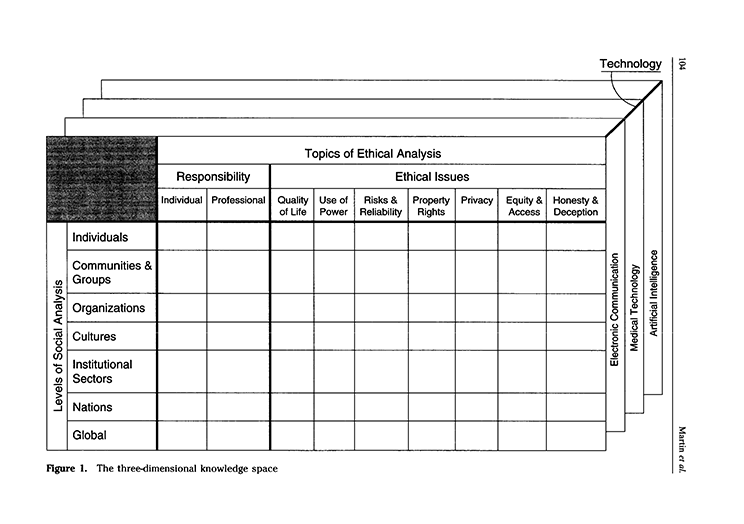
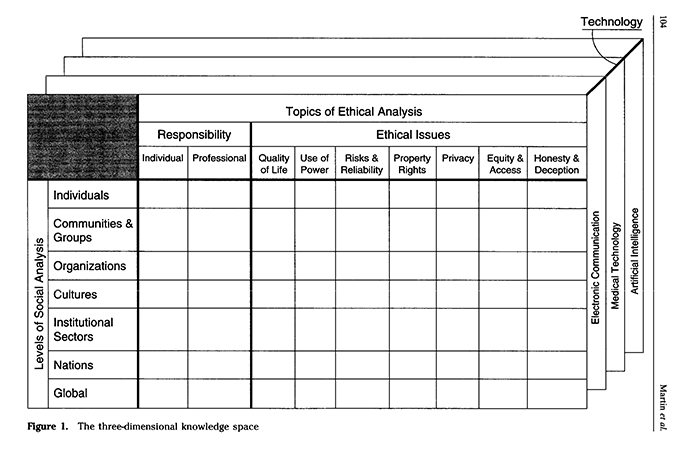
Added image subtitle style
Cropped martin miller image

Changed region(s): [[0.0307, 0.031, 0.9825, 0.9623], [0.9518, 0.8381, 0.9825, 0.9623]]

diff --git a/index.html b/index.html
@@ -7,42 +7,44 @@
 
 <body>
 
-<div class="main">
+  <!-- Wrap the content in a div to allow easier layout and alignment -->
+  <div class="main">
 
-  <article>
-    <!-- Main content -->
-    <h1><a class="menu" href="index.html">CTiS: Impact of Technology Site</a></h1>
-    <h5>- Home Page -</h5>
+    <!-- All the main content goes in this article container to keep the width sensible -->
+    <article>
+      <h1><a class="menu" href="index.html">CTiS: Impact of Technology Site</a></h1> <!-- Site title functions as lint to return to home -->
+      <h5>- Home Page -</h5> <!-- Subtitle so the user always knows where they are -->
 
-    <hr>
-    <div style="display: flex; justify-content: center; padding: 0px;">
-      <ul class="menu">
-        <li class="horizontal"><a class="menu" href="misc/topic.html">Technology/Topic</a>
-        <li class="horizontal"><a class="menu" href="misc/opportunities.html">Opportunities</a>
-        <li class="horizontal"><a class="menu" href="misc/risks.html">Risks</a>
-        <li class="horizontal"><a class="menu" href="misc/choices.html">Choices</a>
-        <li class="horizontal"><a class="menu" href="misc/ethics.html">Ethical Reflections</a>
-        <li class="horizontal"><a class="menu" href="misc/references.html">References</a>
-        <li class="horizontal"><a class="menu" href="misc/process.html">Process Support</a>
-      </ul>
-    </div>
+      <!-- Navigation bar 
+           Don't link to the page that the user is currently on. -->
+      <hr>
+      <div style="display: flex; justify-content: center; padding: 0px;">
+        <ul class="menu">
+          <li class="horizontal"><a class="menu" href="misc/topic.html">Technology/Topic</a>
+          <li class="horizontal"><a class="menu" href="misc/opportunities.html">Opportunities</a>
+          <li class="horizontal"><a class="menu" href="misc/risks.html">Risks</a>
+          <li class="horizontal"><a class="menu" href="misc/choices.html">Choices</a>
+          <li class="horizontal"><a class="menu" href="misc/ethics.html">Ethical Reflections</a>
+          <li class="horizontal"><a class="menu" href="misc/references.html">References</a>
+          <li class="horizontal"><a class="menu" href="misc/process.html">Process Support</a>
+        </ul>
+      </div>
+      <hr>
 
-    <hr>
+      <p>Welcome to the landing page for group 0211's Impact of Technology assignment.<br>
+      We have rewritten the pages to follow a different design to the original.
+      </p>
 
-    <p>Welcome to the landing page for group 0211's Impact of Technology assignment.<br>
-    We have rewritten the pages to follow a different design to the original.
-    </p>
+      <p style="text-align: center;"><i>"You're a fucking moron if you use default browser styles."<br>
+        - Abraham Lincoln</i></p>
 
-    <p style="text-align: center;"><i>"You're a fucking moron if you use default browser styles."<br>
-      - Abraham Lincoln</i></p>
+      <!-- Sign and date the page, it's only polite! -->
+      <address>Made 2nd May 2023<br>
+        by Skye Pooley and Clayton Roberts.</address>
 
-    <!-- Sign and date the page, it's only polite! -->
-    <address>Made 2nd May 2023<br>
-      by Skye Pooley and Clayton Roberts.</address>
+    </article>
 
-  </article>
-
-</div>
+  </div>
 
 </body>
 </html>

diff --git a/misc/topic.html b/misc/topic.html
@@ -36,7 +36,7 @@
   <p><em>When deciding on your chosen technology/topic, it is best not to choose something too broad, but limit the focus e.g. consider the level of social analysis from the figure below.</p></em>
   <p><em>E.g. What is the level of analysis - culture or organization; Responsibility - individual or pro fessional; Ethical issue - power or equity; Technology - medical, nuclear, mobile?</p></em>
   <img src="../images/martin_miller_1996_small.png" alt="Social and Ethical Impact of Computing">
-  <p>ex. Martin, C. D., Huff, C., Gotterbarn, D., & Miller, K. (1996). A framework for implementing and teaching the social and ethical impact of computing. Education and Information Technologies, 1(2), 101-122.<p>
+  <p class="image_subtitle">ex. Martin, C. D., Huff, C., Gotterbarn, D., & Miller, K. (1996). A framework for implementing and teaching the social and ethical impact of computing. Education and Information Technologies, 1(2), 101-122.<p>
 
   </article>
 

diff --git a/styles/mystyles.css b/styles/mystyles.css
@@ -53,7 +53,12 @@ p {
 
 }
 
-p.extra_small{
+p.image_subtitle {
+  font-weight: bold;
+  font-size: 11pt;
+}
+
+p.extra_small {
     font-size: 10pt;
     text-align: left;
 }
@@ -66,7 +71,7 @@ hr {
 }
 
 ul.menu {
-  padding: 0px;
+  margin: 6px;
 }
 
 li.horizontal{
@@ -81,7 +86,7 @@ a.menu {
   margin-right: 5px;
 }
 
-a:hover {
+a.menu:hover {
   text-shadow:0px 0px 1px black;
 }
 
